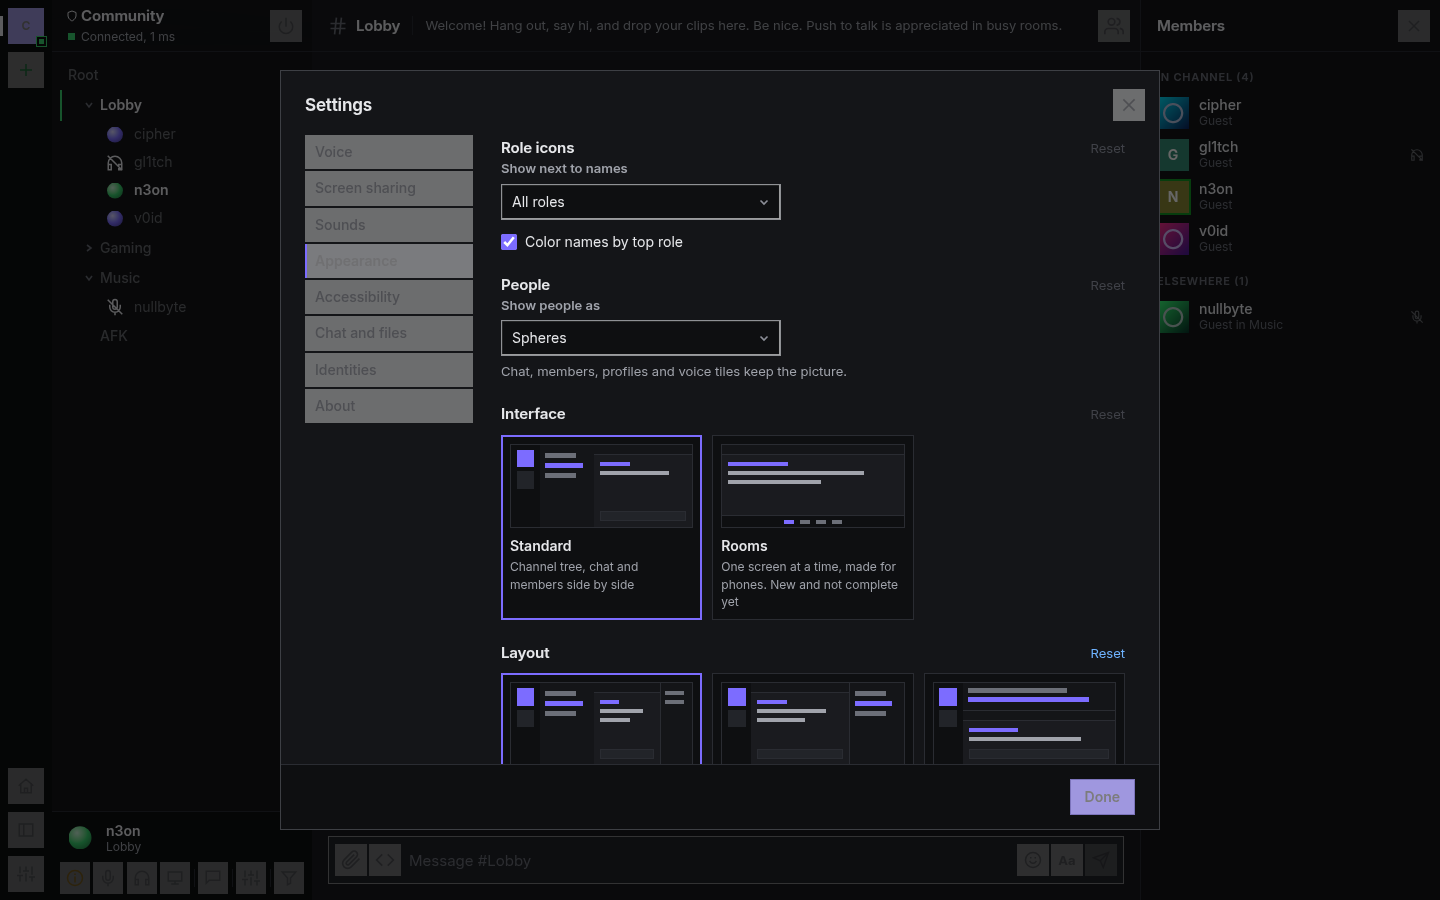
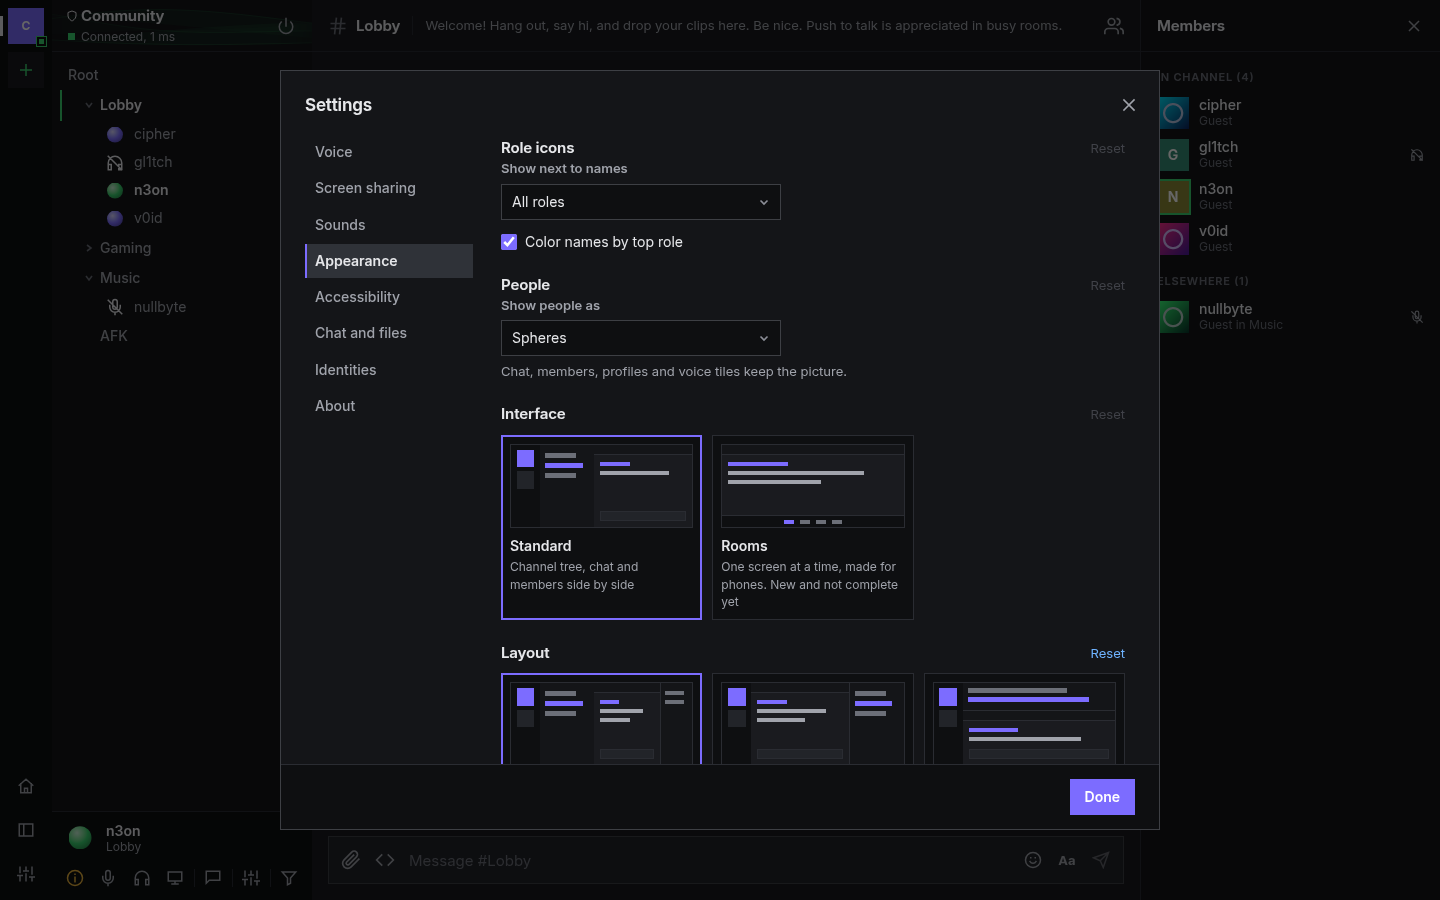
fix: capture appearance settings after theme transitions settle
Wait for the selected theme to reach the document, move the pointer away, and finish screenshot animations so the Dark capture does not retain gray Windows 95 buttons.

diff --git a/test/e2e/screenshots.ts b/test/e2e/screenshots.ts
@@ -269,9 +269,13 @@ try {
     await page.getByTitle('Settings').click();
     await tab('Appearance');
     await page.locator(`[data-theme-preview="${t}"]`).click();
+    await page.waitForFunction(theme => (document.documentElement.dataset.theme || 'dark') === theme, t);
     // Clicking scrolled the list to the scheme; the picture shows it from the top
     await page.locator('.modal .body').evaluate(el => { el.scrollTop = 0; });
-    if (t === 'dark') await page.screenshot({ path: path.join(out, 'settings-appearance.png') });
+    if (t === 'dark') {
+      await page.mouse.move(0, 0);
+      await page.screenshot({ path: path.join(out, 'settings-appearance.png'), animations: 'disabled' });
+    }
     await page.getByRole('button', { name: 'Done', exact: true }).click();
     await page.mouse.move(0, 0);
     await wait(400);
